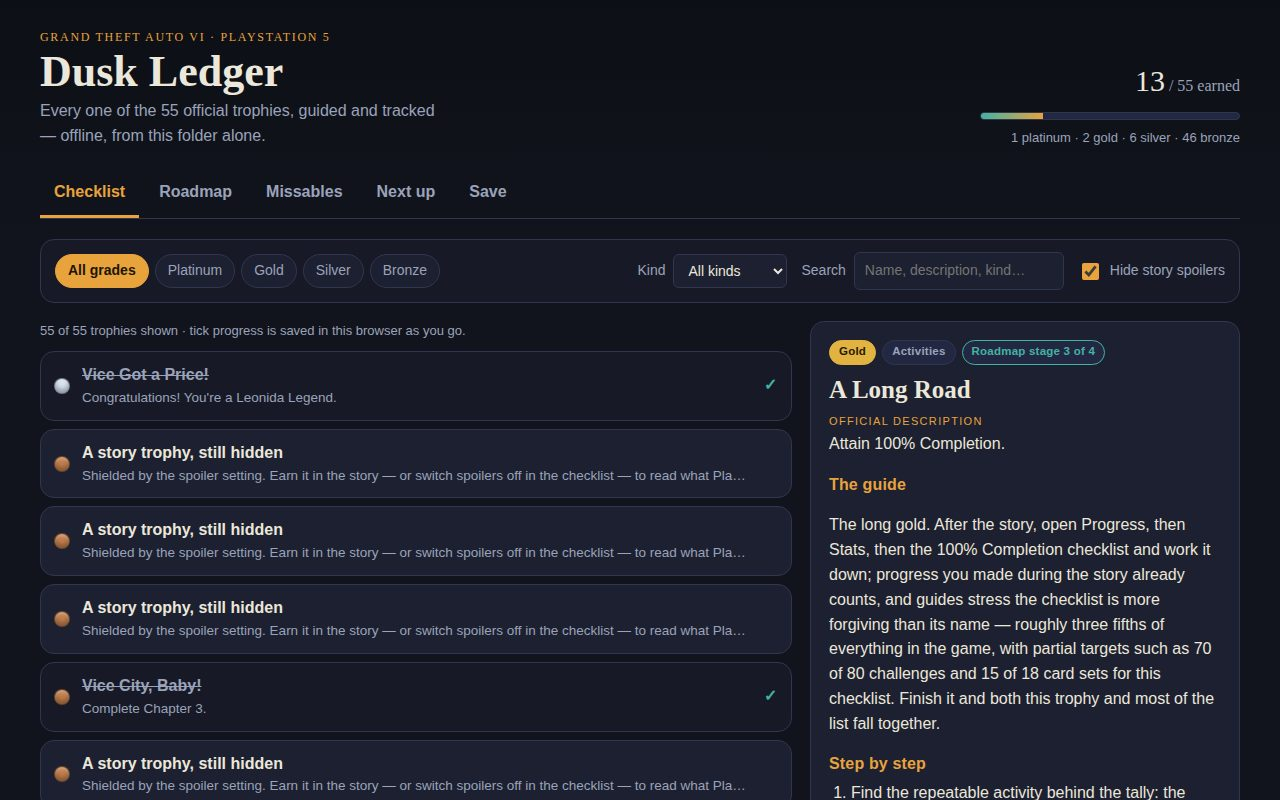
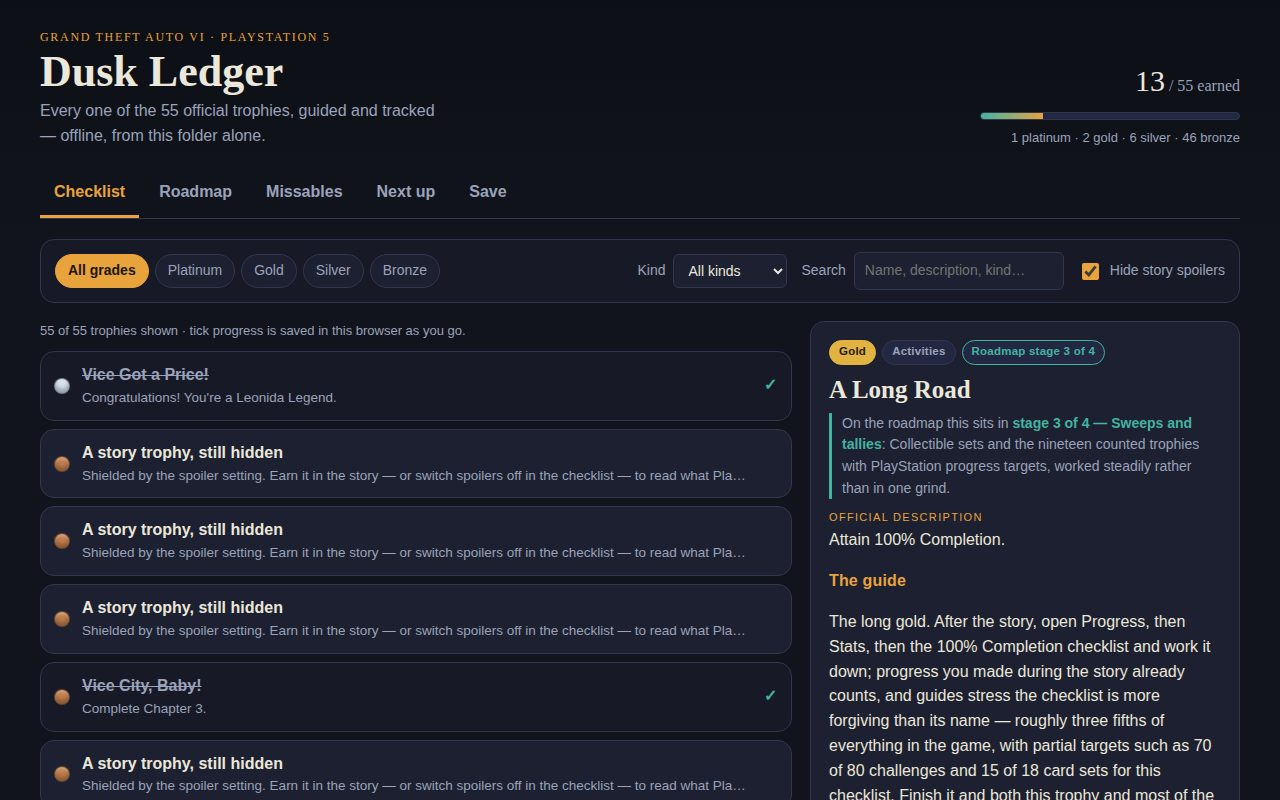
v5 polish: roadmap stage context line in the trophy detail pane

Changed region(s): [[0.625, 0.5, 0.9375, 1.0]]

diff --git a/app/js/views.js b/app/js/views.js
@@ -137,6 +137,7 @@ export function detailHTML(trophy, ctx) {
   <section class="detail" aria-label="Trophy guide">
     <p class="chip-row">${chipsFor(trophy)}</p>
     <h2>${esc(shownName(trophy, store))}</h2>
+    <p class="stage-line">On the roadmap this sits in <strong>stage ${stageOf(trophy)} of 4 — ${esc(STAGES[stageOf(trophy) - 1].title)}</strong>: ${esc(STAGES[stageOf(trophy) - 1].blurb)}</p>
     <p class="official"><span class="lbl">Official description</span>${esc(shownDescription(trophy, store))}</p>
     ${
       shielded

diff --git a/app/style.css b/app/style.css
@@ -281,6 +281,8 @@ textarea { width: 100%; resize: vertical; }
   top: 14px;
 }
 .detail h2 { margin: 0 0 8px; font-size: 25px; line-height: 1.2; }
+.stage-line { margin: 0 0 10px; color: var(--muted); font-size: 14px; border-left: 3px solid var(--teal); padding-left: 10px; }
+.stage-line strong { color: var(--teal); }
 .detail h3 { margin: 16px 0 4px; font-size: 16px; color: var(--accent); font-family: inherit; letter-spacing: 0.01em; }
 .official { margin: 6px 0; }
 .guide-block p, .steps-block li { color: var(--text); }
